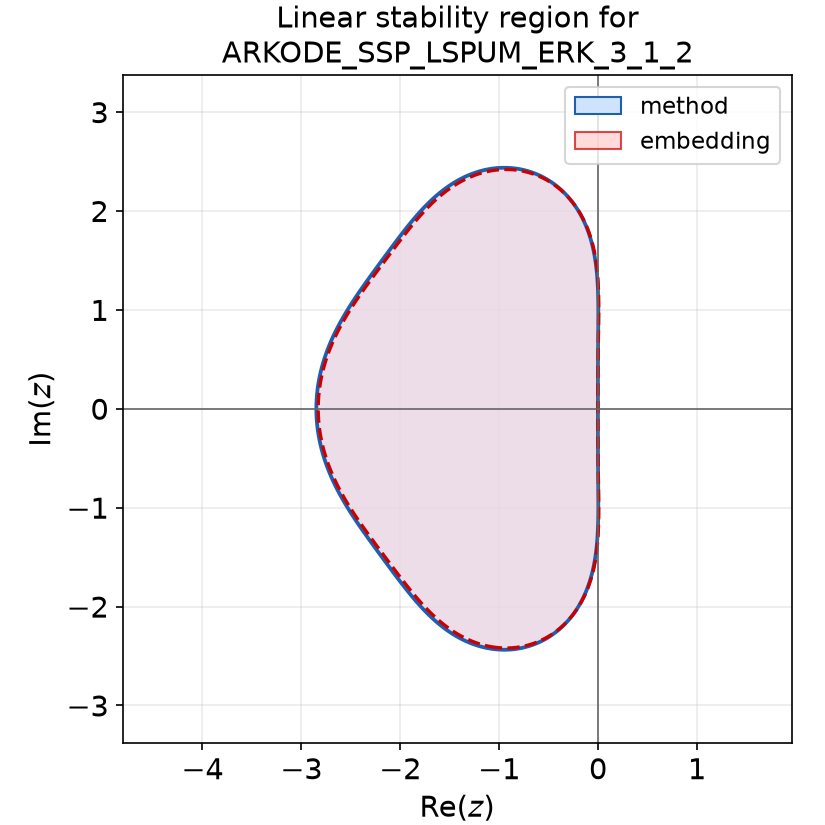
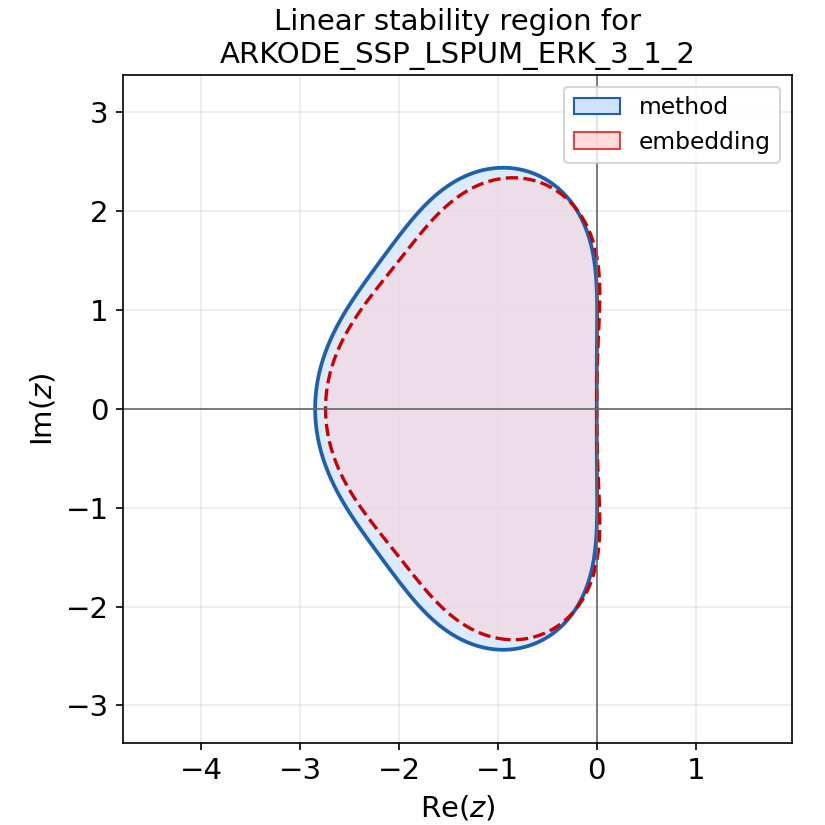
Feature/lspum embedding (#1059)
Update the embedding coefficients for the explicit and
diagonally implicit Runge--Kutta tables `ARKODE_SSP_LSPUM_ERK_3_1_2` and
`ARKODE_SSP_LSPUM_ERK_3_1_2`, respectively, to improved
values. The previous version the method coefficients `b` and the
embedding coefficients `d` were very similar to one another, leading to
potential under-estimation of temporal error for some applications. The
revised coefficients increase this difference, while still resulting in
an embedding of otherwise similar quality (A-stable, etc.).

diff --git a/doc/shared/RecentChanges.rst b/doc/shared/RecentChanges.rst
@@ -13,12 +13,20 @@ Updated :c:func:`ARKodeGetReturnFlagName`, :c:func:`CVodeGetReturnFlagName`,
 :c:func:`KINGetReturnFlagName` to return ``const char*`` rather than ``char*``.
 The returned string should no longer be freed by the user.
 
+Updated the shared embedding coefficients for the
+``ARKODE_SSP_LSPUM_ERK_3_1_2`` and ``ARKODE_SSP_LSPUM_SDIRK_3_1_2`` methods to
+improve their temporal accuracy estimates.  Users who wish to revert to the
+previous coefficients can load the current table(s) using
+:c:func:`ARKodeButcherTable_LoadERK` or :c:func:`ARKodeButcherTable_LoadDIRK`
+and replace the internal ``d`` coefficients in the returned table with the
+previous values, [ 4247.0/9840.0, 21343.0/108240.0, 49.0/132.0 ].
+
 **Bug Fixes**
 
 Fixed a segfault that could occur when handling errors without a ``SUNContext``
 provided.
 
-Fixed a bug in ``FindMAGMA.cmake`` which didn't allow use of MAGMA versions with 
+Fixed a bug in ``FindMAGMA.cmake`` which didn't allow use of MAGMA versions with
 multiple digits in an identifier.
 
 Fixed a bug in the LSRKStep module where the step post-processing function for

diff --git a/CHANGELOG.md b/CHANGELOG.md
@@ -14,12 +14,20 @@ Updated `ARKodeGetReturnFlagName`, `CVodeGetReturnFlagName`,
 return `const char*` rather than `char*`. The returned string should no
 longer be freed by the user.
 
+Updated the shared embedding coefficients for the
+`ARKODE_SSP_LSPUM_ERK_3_1_2` and `ARKODE_SSP_LSPUM_SDIRK_3_1_2` methods to
+improve their temporal accuracy estimates.  Users who wish to revert to the
+previous coefficients can load the current table(s) using
+`ARKodeButcherTable_LoadERK` or `ARKodeButcherTable_LoadDIRK`
+and replace the internal `d` coefficients in the returned table with the
+previous values, [ 4247.0/9840.0, 21343.0/108240.0, 49.0/132.0 ].
+
 ### Bug Fixes
 
 Fixed a segfault that could occur when handling errors without a `SUNContext`
 provided.
 
-Fixed a bug in `FindMAGMA.cmake` which didn't allow use of MAGMA versions with 
+Fixed a bug in `FindMAGMA.cmake` which didn't allow use of MAGMA versions with
 multiple digits in an identifier.
 
 Fixed a bug in the LSRKStep module where the step post-processing function for

diff --git a/doc/arkode/guide/source/Butcher.rst b/doc/arkode/guide/source/Butcher.rst
@@ -518,7 +518,7 @@ and the embedding has SSP coefficient equal to 1.15.
      \frac{11}{12} & \frac{11}{24} & \frac{11}{24} & 0 \\
      \hline
      2 & \frac{24}{55} & \frac{1}{5} & \frac{4}{11} \\
-     1 & \frac{4247}{9840} & \frac{21343}{108240} & \frac{49}{132}
+     1 & \frac{73467}{180400} & \frac{32969}{180400} & \frac{41}{100}
    \end{array}
 
 .. figure:: /figs/arkode/ARKODE_SSP_LSPUM_ERK_3_1_2_stab_region.png
@@ -1850,7 +1850,7 @@ coefficient equal to 3.81.
      \frac{751}{924} & \frac{2033}{4620} & \frac{21}{110} & \frac{2}{11} \\
      \hline
      2 & \frac{24}{55} & \frac{1}{5} & \frac{4}{11} \\
-     1 & \frac{4247}{9840} & \frac{21343}{108240} & \frac{49}{132}
+     1 & \frac{73467}{180400} & \frac{32969}{180400} & \frac{41}{100}
    \end{array}
 
 .. figure:: /figs/arkode/ARKODE_SSP_LSPUM_SDIRK_3_1_2_stab_region.png
